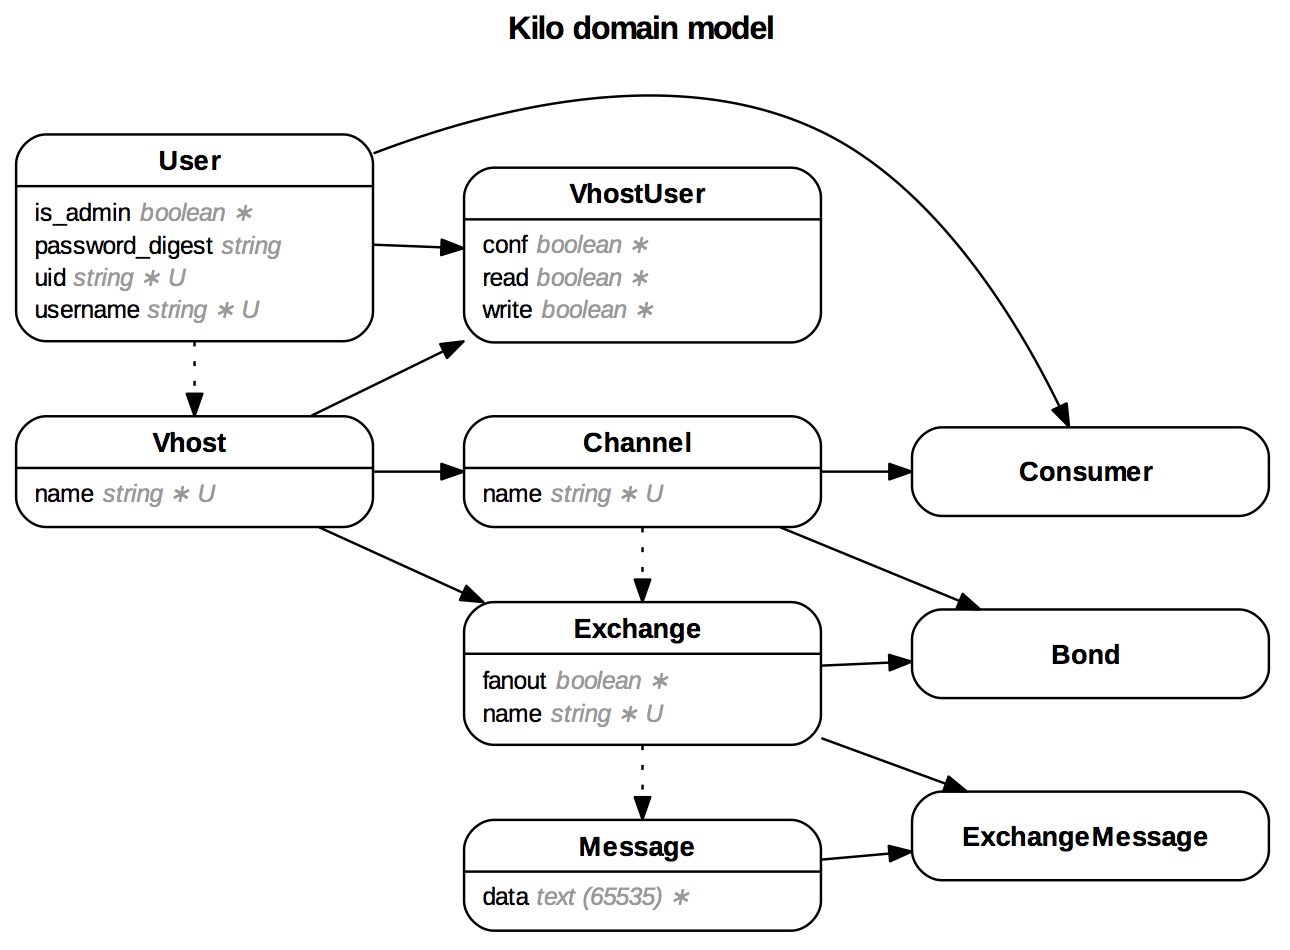
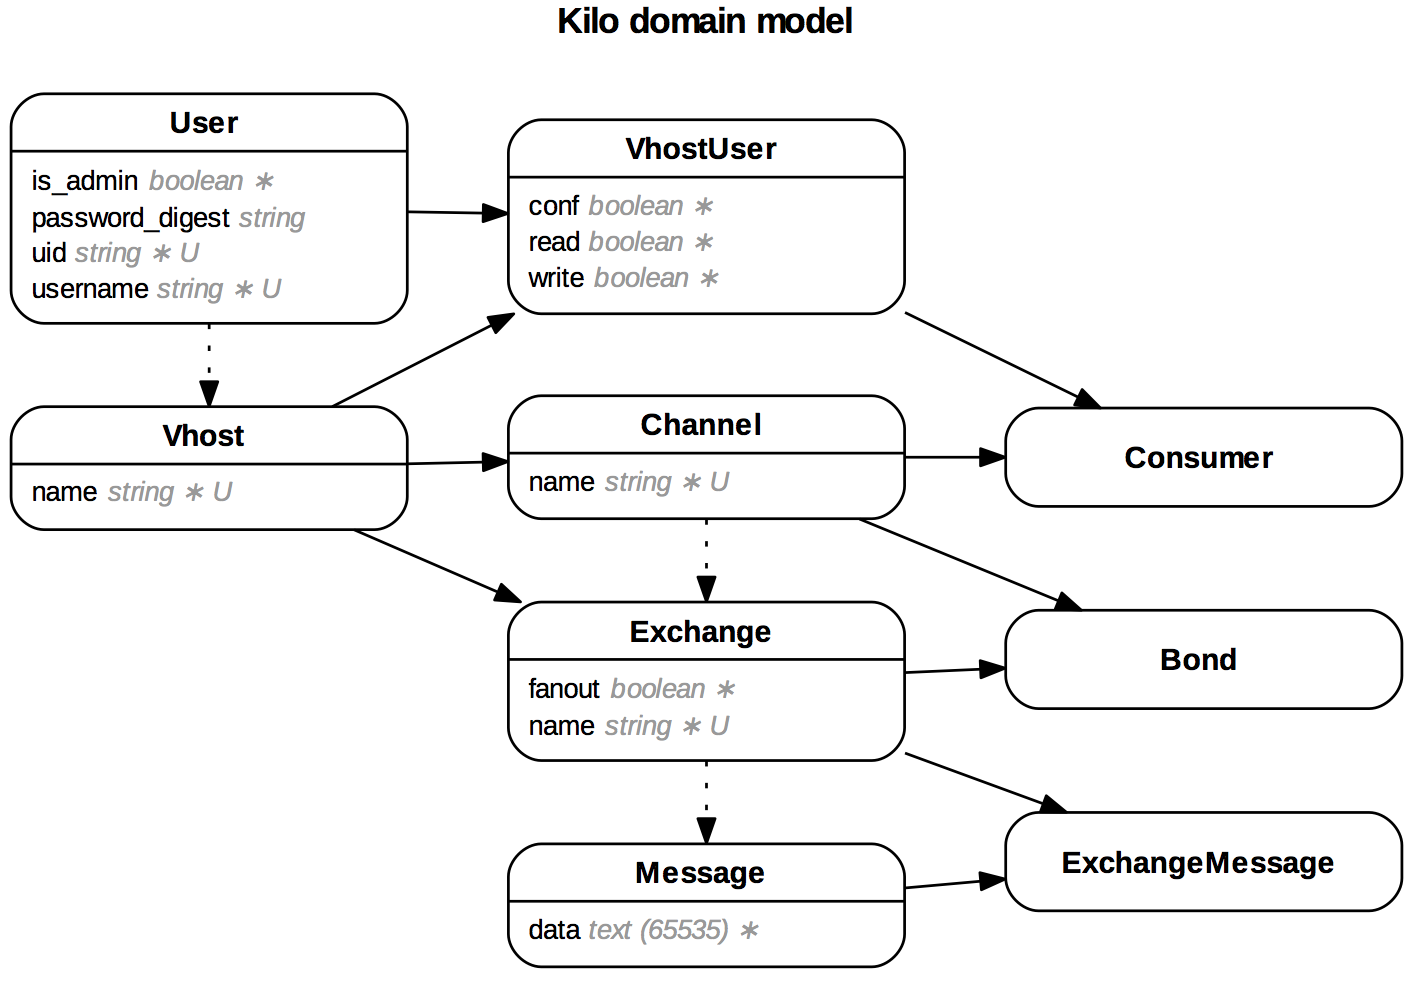
Fixed domain model with vhost_users -> consumers instead of users -> consumers

diff --git a/db/schema.rb b/db/schema.rb
@@ -20,7 +20,7 @@ ActiveRecord::Schema.define(version: 20151207065919) do
     t.datetime "updated_at",            null: false
   end
 
-  add_index "bonds", ["channel_id"], name: "fk_rails_d82188bde1", using: :btree
+  add_index "bonds", ["channel_id"], name: "fk_rails_cc45b332b1", using: :btree
   add_index "bonds", ["exchange_id", "channel_id"], name: "index_bonds_on_exchange_id_and_channel_id", unique: true, using: :btree
 
   create_table "channels", force: :cascade do |t|
@@ -33,13 +33,14 @@ ActiveRecord::Schema.define(version: 20151207065919) do
   add_index "channels", ["vhost_id", "name"], name: "index_channels_on_vhost_id_and_name", unique: true, using: :btree
 
   create_table "consumers", force: :cascade do |t|
-    t.integer  "channel_id", limit: 4
-    t.integer  "user_id",    limit: 4
-    t.datetime "created_at",           null: false
-    t.datetime "updated_at",           null: false
+    t.integer  "channel_id",    limit: 4
+    t.integer  "vhost_user_id", limit: 4
+    t.datetime "created_at",              null: false
+    t.datetime "updated_at",              null: false
   end
 
-  add_index "consumers", ["channel_id", "user_id"], name: "index_consumers_on_channel_id_and_user_id", unique: true, using: :btree
+  add_index "consumers", ["channel_id", "vhost_user_id"], name: "index_consumers_on_channel_id_and_vhost_user_id", unique: true, using: :btree
+  add_index "consumers", ["vhost_user_id"], name: "fk_rails_84dc54690e", using: :btree
 
   create_table "exchange_messages", force: :cascade do |t|
     t.integer "exchange_id", limit: 4
@@ -47,7 +48,7 @@ ActiveRecord::Schema.define(version: 20151207065919) do
   end
 
   add_index "exchange_messages", ["exchange_id", "message_id"], name: "index_exchange_messages_on_exchange_id_and_message_id", unique: true, using: :btree
-  add_index "exchange_messages", ["message_id"], name: "fk_rails_90567f0149", using: :btree
+  add_index "exchange_messages", ["message_id"], name: "fk_rails_a36f529f6c", using: :btree
 
   create_table "exchanges", force: :cascade do |t|
     t.integer  "vhost_id",   limit: 4
@@ -87,7 +88,7 @@ ActiveRecord::Schema.define(version: 20151207065919) do
     t.datetime "updated_at",                           null: false
   end
 
-  add_index "vhost_users", ["user_id"], name: "fk_rails_67be07e0b7", using: :btree
+  add_index "vhost_users", ["user_id"], name: "fk_rails_c031731f10", using: :btree
   add_index "vhost_users", ["vhost_id", "user_id"], name: "index_vhost_users_on_vhost_id_and_user_id", unique: true, using: :btree
 
   create_table "vhosts", force: :cascade do |t|
@@ -102,6 +103,7 @@ ActiveRecord::Schema.define(version: 20151207065919) do
   add_foreign_key "bonds", "exchanges"
   add_foreign_key "channels", "vhosts"
   add_foreign_key "consumers", "channels"
+  add_foreign_key "consumers", "vhost_users"
   add_foreign_key "exchange_messages", "exchanges"
   add_foreign_key "exchange_messages", "messages"
   add_foreign_key "exchanges", "vhosts"

diff --git a/spec/models/consumer_spec.rb b/spec/models/consumer_spec.rb
@@ -7,12 +7,15 @@ describe Consumer do
 
   describe 'validations' do
     it { should validate_presence_of :channel_id }
-    it { should validate_presence_of :user_id }
-    it { should validate_uniqueness_of(:user_id).scoped_to(:channel_id) }
+    it { should validate_presence_of :vhost_user_id }
+    it do
+      FactoryGirl.create(:consumer)
+      should validate_uniqueness_of(:vhost_user_id).scoped_to(:channel_id)
+    end
   end
 
   describe 'relationships' do
     it { should belong_to :channel }
-    it { should belong_to :user }
+    it { should belong_to :vhost_user }
   end
 end

diff --git a/db/migrate/20151207065919_add_messages.rb b/db/migrate/20151207065919_add_messages.rb
@@ -2,12 +2,14 @@ class AddMessages < ActiveRecord::Migration
   def change
     create_table :consumers do |t|
       t.references :channel
-      t.references :user
+      t.references :vhost_user
       t.timestamps null: false
     end
 
-    add_index :consumers, [:channel_id, :user_id], unique: true
+    add_index :consumers, [:channel_id, :vhost_user_id], unique: true
     add_foreign_key :consumers, :channels,
+                    dependent: :delete
+    add_foreign_key :consumers, :vhost_users,
                     dependent: :delete
 
     create_table :messages do |t|

diff --git a/app/models/consumer.rb b/app/models/consumer.rb
@@ -1,7 +1,7 @@
 
 class Consumer < ActiveRecord::Base
   belongs_to :channel
-  belongs_to :user
-  validates_presence_of :channel_id, :user_id
-  validates_uniqueness_of :user_id, scope: :channel_id
+  belongs_to :vhost_user
+  validates_presence_of :channel_id, :vhost_user_id
+  validates_uniqueness_of :vhost_user_id, scope: :channel_id
 end

diff --git a/spec/controllers/exchange_controller_spec.rb b/spec/controllers/exchange_controller_spec.rb
@@ -246,10 +246,7 @@ describe ExchangeController do
                 message: {hello: :world}.to_json
               }
             end
-            it 'returns 200' do
-byebug
-puts ""
-            end
+            it 'returns 200'
             it 'returns JSON'
             context 'the JSON returned' do
               it 'has success: true'

diff --git a/app/controllers/exchange_controller.rb b/app/controllers/exchange_controller.rb
@@ -52,10 +52,8 @@ class ExchangeController < ApplicationController
 
 
   def publish
-byebug
     exchange = current_vhost.exchanges.find_by(name: params[:exchange])
     message = exchange.messages.create(data: params[:message])
-byebug
 
     render json: {
       success: true,

diff --git a/spec/factories/consumers.rb b/spec/factories/consumers.rb
@@ -2,6 +2,6 @@
 FactoryGirl.define do
   factory :consumer do
     association :channel
-    association :user
+    association :vhost_user
   end
 end
